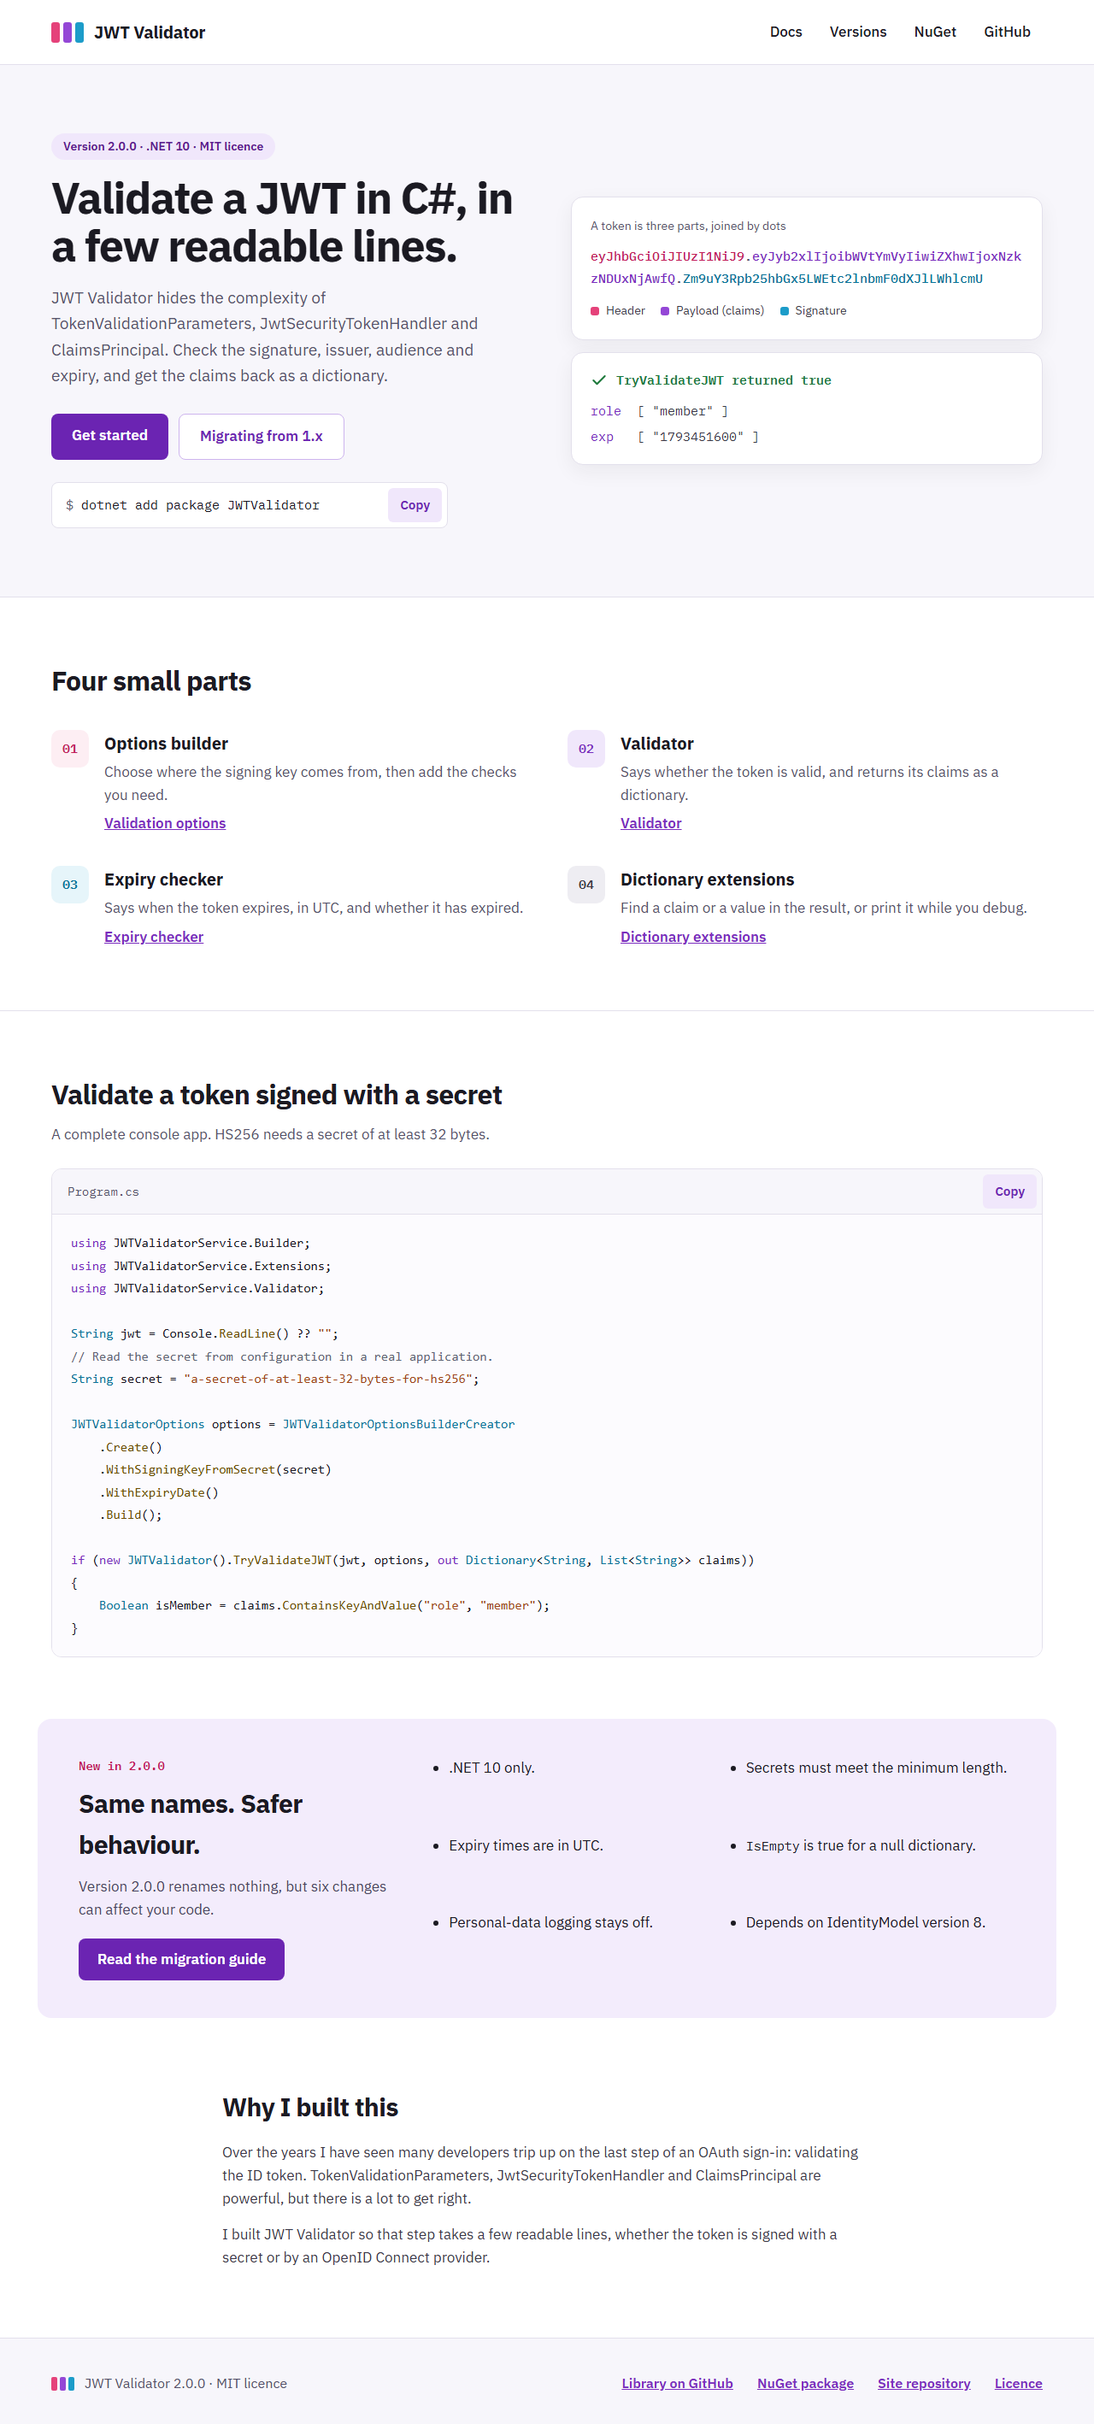
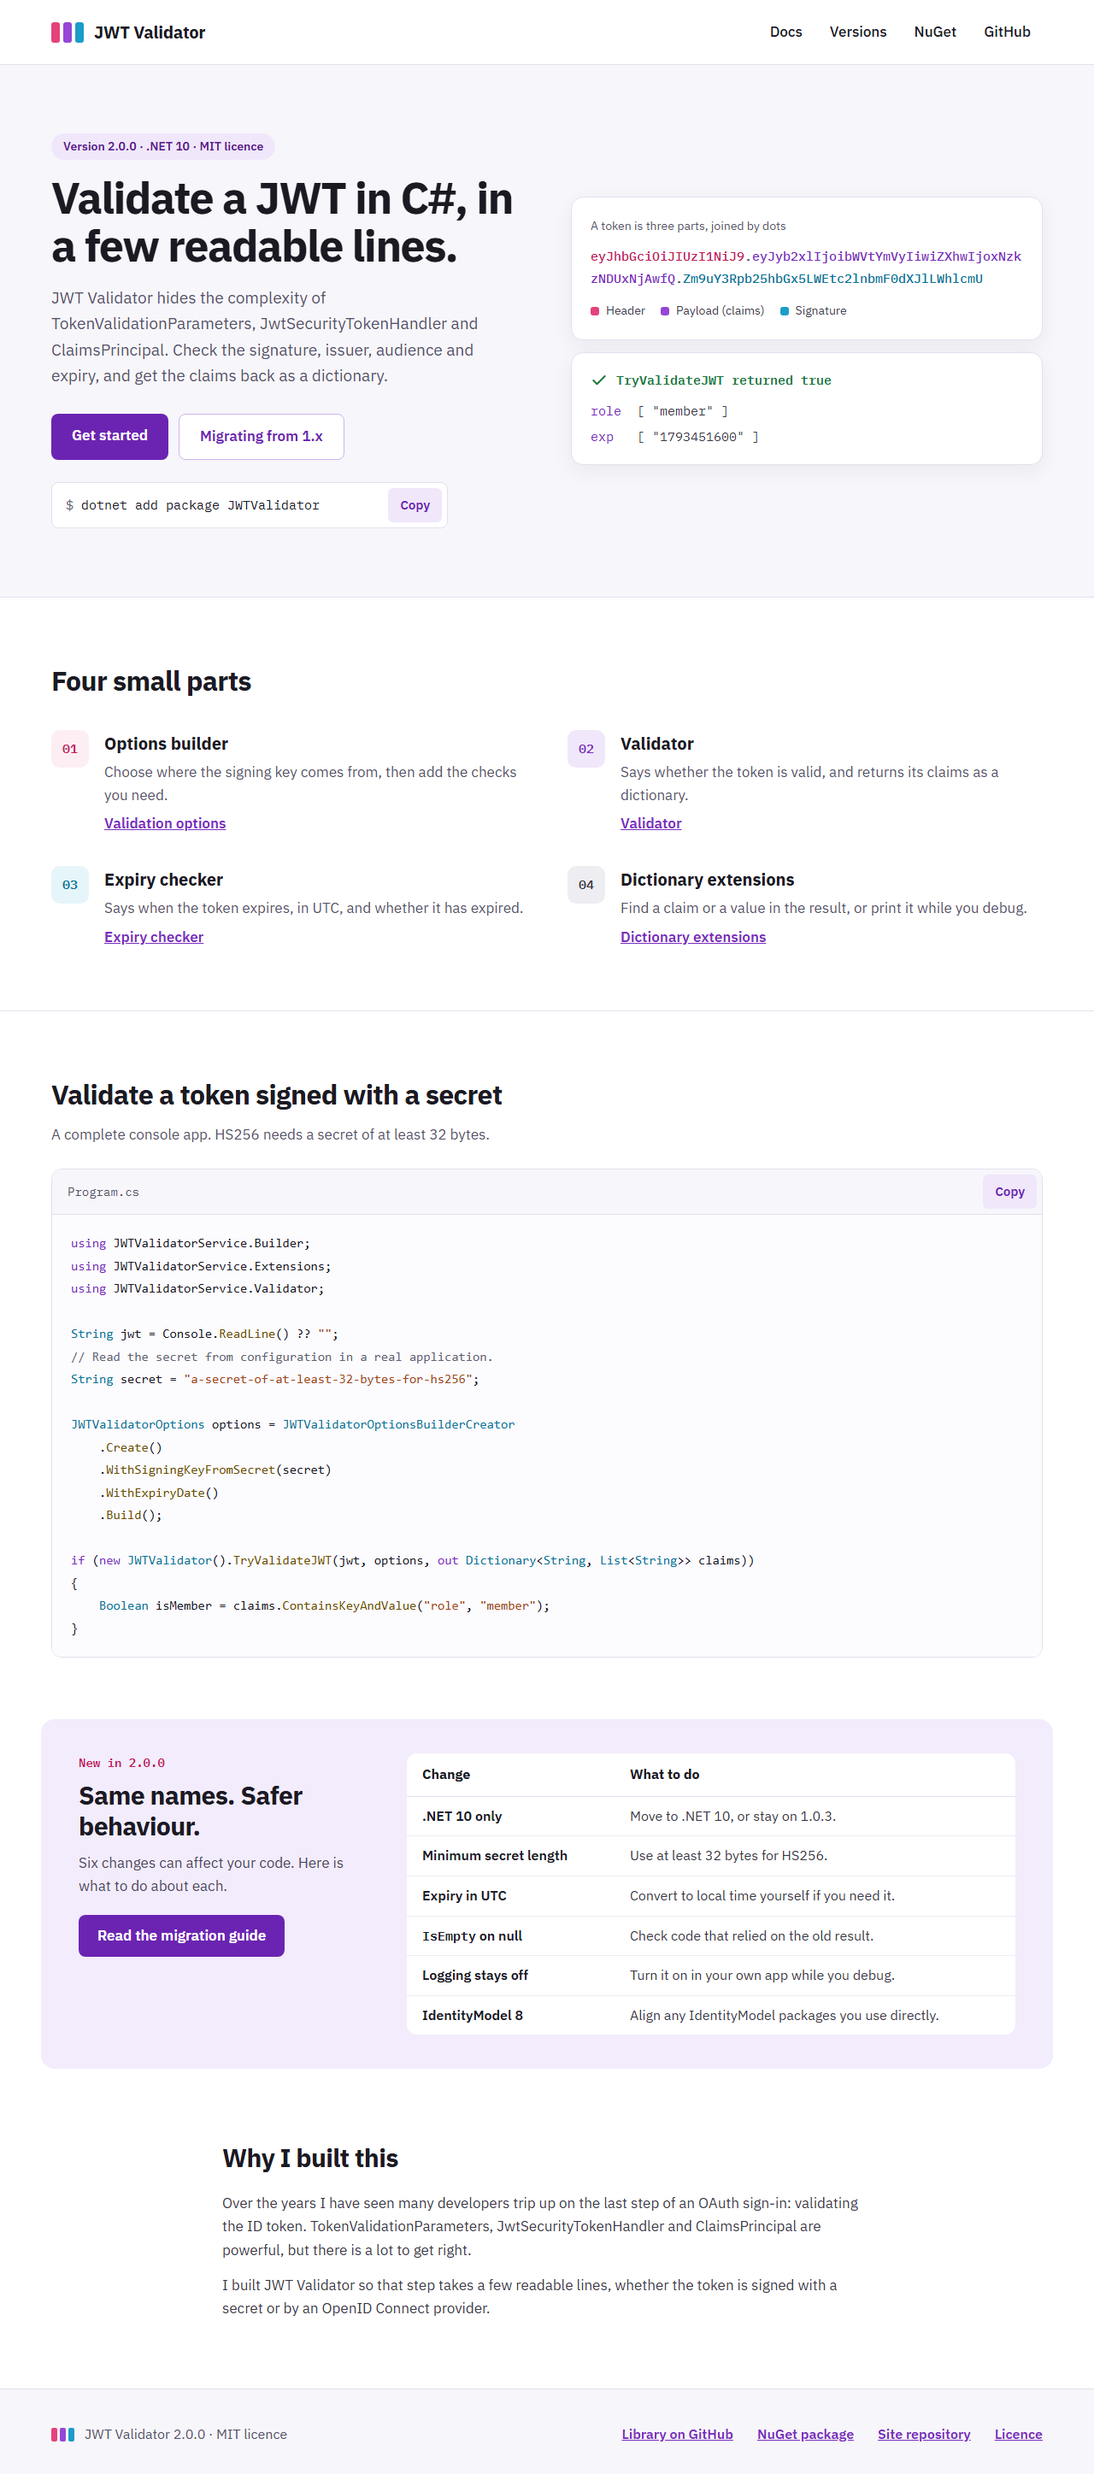
Add the Versions design and the new 2.0.0 section on Home
The maintainer approved two design changes on 2026-10-23:

- The Versions page: a changelog with one row per version, its date,
  its status and its changes.
- The 2.0.0 section on Home: a table of each change and what to do,
  in place of six loose bullet points.

docs/design holds both as HTML and PNG, and plan section 3.6 lists the
Versions files.

diff --git a/docs/design/versions.html b/docs/design/versions.html
@@ -1,0 +1,173 @@
+<!doctype html>
+<html lang="en">
+<head>
+<meta charset="utf-8">
+<meta name="viewport" content="width=device-width, initial-scale=1">
+<title>Approved design: Versions page</title>
+<!-- Approved design mockup. Fonts load from Google Fonts here only; the site hosts its own. -->
+<link rel="preconnect" href="https://fonts.googleapis.com">
+<link href="https://fonts.googleapis.com/css2?family=IBM+Plex+Mono:wght@400;500;600&amp;family=IBM+Plex+Sans:wght@400;500;600;700&amp;display=swap" rel="stylesheet">
+<style>
+body{margin:0;background:#FFFFFF}
+a{color:#7A2DBE}a:hover{color:#5A1F8F}
+</style>
+</head>
+<body>
+<div style="background: #FFFFFF; color: #1B1A22; font-family: 'IBM Plex Sans', system-ui, sans-serif; font-size: 17px; line-height: 1.6; min-height: 100%">
+
+  <header style="border-bottom: 1px solid #E3E0EC">
+    <div style="max-width: 1160px; margin: 0 auto; padding: 14px 32px; display: flex; flex-wrap: wrap; align-items: center; justify-content: space-between; gap: 16px">
+      <a href="#" style="display: flex; align-items: center; gap: 12px; text-decoration: none; color: #1B1A22">
+        <span aria-hidden="true" style="display: flex; gap: 4px">
+          <span style="width: 10px; height: 24px; border-radius: 3px; background: #E5427A"></span>
+          <span style="width: 10px; height: 24px; border-radius: 3px; background: #9447D6"></span>
+          <span style="width: 10px; height: 24px; border-radius: 3px; background: #1C9CC9"></span>
+        </span>
+        <span style="font-weight: 700; font-size: 20px; letter-spacing: -0.01em">JWT Validator</span>
+      </a>
+      <nav aria-label="Main" style="display: flex; flex-wrap: wrap; gap: 4px; font-weight: 500">
+        <a href="#" style="color: #1B1A22; text-decoration: none; padding: 10px 14px; border-radius: 8px">Docs</a>
+        <a href="#" aria-current="page" style="color: #5A1F8F; text-decoration: none; padding: 10px 14px; border-radius: 8px; background: #F0E7FB; font-weight: 600">Versions</a>
+        <a href="#" style="color: #1B1A22; text-decoration: none; padding: 10px 14px; border-radius: 8px">NuGet</a>
+        <a href="#" style="color: #1B1A22; text-decoration: none; padding: 10px 14px; border-radius: 8px">GitHub</a>
+      </nav>
+    </div>
+  </header>
+
+  <main>
+    <section style="background: #F7F6FB; border-bottom: 1px solid #E3E0EC">
+      <div style="max-width: 1160px; margin: 0 auto; padding: 56px 32px 48px">
+        <h1 style="margin: 0 0 10px; font-size: 44px; line-height: 1.1; letter-spacing: -0.03em">Versions</h1>
+        <p style="margin: 0 0 22px; font-size: 19px; color: #55526A; max-width: 40em">Every released version of the JWTValidator package, newest first. Each one is on nuget.org.</p>
+        <div style="display: flex; flex-wrap: wrap; gap: 10px 20px; font-size: 14px; color: #3B3848">
+          <span style="display: flex; align-items: center; gap: 8px"><span style="font-weight: 600; color: #FFFFFF; background: #6B24B2; border-radius: 999px; padding: 1px 10px">Latest</span>The version to install</span>
+          <span style="display: flex; align-items: center; gap: 8px"><span style="font-weight: 600; color: #3B3848; background: #EEEDF2; border-radius: 999px; padding: 1px 10px">Previous</span>Still on nuget.org</span>
+          <span style="display: flex; align-items: center; gap: 8px"><span style="font-weight: 600; color: #A8174D; background: #FDEEF3; border-radius: 999px; padding: 1px 10px">Unlisted</span>Hidden from search on nuget.org</span>
+        </div>
+      </div>
+    </section>
+
+    <div style="max-width: 1160px; margin: 0 auto; padding: 48px 32px 80px">
+      <ol style="list-style: none; margin: 0; padding: 0; display: flex; flex-direction: column; gap: 28px">
+
+        <li>
+          <article aria-labelledby="v200" style="display: flex; flex-wrap: wrap; gap: 20px 40px">
+            <div style="flex: 1 1 200px; max-width: 240px">
+              <h2 id="v200" style="margin: 0 0 4px; font-family: 'IBM Plex Mono', monospace; font-size: 30px; font-weight: 600; letter-spacing: -0.02em">2.0.0</h2>
+              <p style="margin: 0 0 10px; color: #55526A">[Release date]</p>
+              <span style="display: inline-block; font-size: 14px; font-weight: 600; color: #FFFFFF; background: #6B24B2; border-radius: 999px; padding: 1px 10px">Latest</span>
+            </div>
+            <div style="flex: 999 1 520px; min-width: 0; border: 1px solid #CDB4EE; border-radius: 14px; padding: 26px 28px; box-shadow: 0 8px 24px rgba(27, 26, 34, 0.06)">
+              <p style="margin: 0 0 18px; font-size: 19px">Brings the library up to date for .NET 10. No class or method names changed, but six changes can affect your code.</p>
+              <h3 style="margin: 0 0 8px; font-family: 'IBM Plex Mono', monospace; font-size: 13px; font-weight: 600; color: #A8174D; letter-spacing: 0.04em">BREAKING CHANGES</h3>
+              <ul style="margin: 0 0 18px; padding-left: 22px">
+                <li>.NET 10 only. .NET 6, 7, 8 and 9 are no longer supported.</li>
+                <li>A secret shorter than the minimum for the token's algorithm no longer validates: 32 bytes for HS256, 48 for HS384 and 64 for HS512.</li>
+                <li><code style="font-family: 'IBM Plex Mono', monospace; font-size: 15px">WhenDoesJWTExpire</code> returns UTC, not local time. <code style="font-family: 'IBM Plex Mono', monospace; font-size: 15px">HasJWTExpired</code> is correct in every time zone.</li>
+                <li><code style="font-family: 'IBM Plex Mono', monospace; font-size: 15px">IsEmpty</code> returns true for an empty or null dictionary.</li>
+                <li>The library no longer turns on personal-data logging.</li>
+                <li>Depends on version 8 of the Microsoft IdentityModel packages, not version 6.</li>
+              </ul>
+              <h3 style="margin: 0 0 8px; font-family: 'IBM Plex Mono', monospace; font-size: 13px; font-weight: 600; color: #55526A; letter-spacing: 0.04em">OTHER CHANGES</h3>
+              <ul style="margin: 0 0 22px; padding-left: 22px">
+                <li>With lifetime validation on, a token whose expiry is after 19 January 2038 now validates.</li>
+                <li>The dictionary extension methods no longer throw for a null dictionary, or a null value inside a list.</li>
+              </ul>
+              <a href="#" style="display: inline-block; background: #6B24B2; color: #FFFFFF; text-decoration: none; font-weight: 600; padding: 11px 22px; border-radius: 8px">Read the migration guide</a>
+            </div>
+          </article>
+        </li>
+
+        <li>
+          <article aria-labelledby="v103" style="display: flex; flex-wrap: wrap; gap: 20px 40px">
+            <div style="flex: 1 1 200px; max-width: 240px">
+              <h2 id="v103" style="margin: 0 0 4px; font-family: 'IBM Plex Mono', monospace; font-size: 30px; font-weight: 600; letter-spacing: -0.02em">1.0.3</h2>
+              <p style="margin: 0 0 10px; color: #55526A">8 November 2022</p>
+              <span style="display: inline-block; font-size: 14px; font-weight: 600; color: #3B3848; background: #EEEDF2; border-radius: 999px; padding: 1px 10px">Previous</span>
+            </div>
+            <div style="flex: 999 1 520px; min-width: 0; border: 1px solid #E3E0EC; border-radius: 14px; padding: 24px 28px">
+              <p style="margin: 0 0 12px; font-size: 18px">Added the expiry checker: find out whether a token has expired, and when it expires.</p>
+              <ul style="margin: 0; padding-left: 22px; color: #3B3848">
+                <li>New <code style="font-family: 'IBM Plex Mono', monospace; font-size: 15px">JWTExpiryChecker</code> class, with <code style="font-family: 'IBM Plex Mono', monospace; font-size: 15px">HasJWTExpired</code> and <code style="font-family: 'IBM Plex Mono', monospace; font-size: 15px">WhenDoesJWTExpire</code> and their <code style="font-family: 'IBM Plex Mono', monospace; font-size: 15px">Try</code> versions.</li>
+                <li>Parameter checks across the library.</li>
+              </ul>
+            </div>
+          </article>
+        </li>
+
+        <li>
+          <article aria-labelledby="v102" style="display: flex; flex-wrap: wrap; gap: 20px 40px">
+            <div style="flex: 1 1 200px; max-width: 240px">
+              <h2 id="v102" style="margin: 0 0 4px; font-family: 'IBM Plex Mono', monospace; font-size: 30px; font-weight: 600; letter-spacing: -0.02em">1.0.2</h2>
+              <p style="margin: 0 0 10px; color: #55526A">19 September 2022</p>
+              <span style="display: inline-block; font-size: 14px; font-weight: 600; color: #3B3848; background: #EEEDF2; border-radius: 999px; padding: 1px 10px">Previous</span>
+            </div>
+            <div style="flex: 999 1 520px; min-width: 0; border: 1px solid #E3E0EC; border-radius: 14px; padding: 24px 28px">
+              <p style="margin: 0 0 12px; font-size: 18px">Made the options builder strict and nested.</p>
+              <ul style="margin: 0; padding-left: 22px; color: #3B3848">
+                <li>The builder's methods must be called in a set order.</li>
+                <li>You give either a secret or an OpenID URL, not both.</li>
+                <li><code style="font-family: 'IBM Plex Mono', monospace; font-size: 15px">JWTValidatorOptions</code> can only be made by the builder.</li>
+              </ul>
+            </div>
+          </article>
+        </li>
+
+        <li>
+          <article aria-labelledby="v101" style="display: flex; flex-wrap: wrap; gap: 20px 40px">
+            <div style="flex: 1 1 200px; max-width: 240px">
+              <h2 id="v101" style="margin: 0 0 4px; font-family: 'IBM Plex Mono', monospace; font-size: 30px; font-weight: 600; letter-spacing: -0.02em">1.0.1</h2>
+              <p style="margin: 0 0 10px; color: #55526A">10 September 2022</p>
+              <span style="display: inline-block; font-size: 14px; font-weight: 600; color: #3B3848; background: #EEEDF2; border-radius: 999px; padding: 1px 10px">Previous</span>
+            </div>
+            <div style="flex: 999 1 520px; min-width: 0; border: 1px solid #E3E0EC; border-radius: 14px; padding: 24px 28px">
+              <p style="margin: 0 0 12px; font-size: 18px">Fixed the package so it installs correctly.</p>
+              <ul style="margin: 0; padding-left: 22px; color: #3B3848">
+                <li>Moved the models into the main project, so the package's dependencies resolve on every machine.</li>
+              </ul>
+            </div>
+          </article>
+        </li>
+
+        <li>
+          <article aria-labelledby="v100" style="display: flex; flex-wrap: wrap; gap: 20px 40px">
+            <div style="flex: 1 1 200px; max-width: 240px">
+              <h2 id="v100" style="margin: 0 0 4px; font-family: 'IBM Plex Mono', monospace; font-size: 30px; font-weight: 600; letter-spacing: -0.02em; color: #55526A">1.0.0</h2>
+              <p style="margin: 0 0 10px; color: #55526A">2022</p>
+              <span style="display: inline-block; font-size: 14px; font-weight: 600; color: #A8174D; background: #FDEEF3; border-radius: 999px; padding: 1px 10px">Unlisted</span>
+            </div>
+            <div style="flex: 999 1 520px; min-width: 0; border: 1px dashed #D5D1E0; border-radius: 14px; padding: 24px 28px; background: #FCFBFE">
+              <p style="margin: 0 0 12px; font-size: 18px">The first version. Replaced by 1.0.1 the next day, because its dependencies did not install correctly.</p>
+              <ul style="margin: 0; padding-left: 22px; color: #3B3848">
+                <li>The options builder, to choose what to validate.</li>
+                <li><code style="font-family: 'IBM Plex Mono', monospace; font-size: 15px">TryValidateJWT</code>, which returns the claims as a dictionary.</li>
+                <li>Extension methods for the claims dictionary.</li>
+              </ul>
+            </div>
+          </article>
+        </li>
+      </ol>
+    </div>
+  </main>
+
+  <footer style="background: #F7F6FB; border-top: 1px solid #E3E0EC">
+    <div style="max-width: 1160px; margin: 0 auto; padding: 40px 32px; display: flex; flex-wrap: wrap; justify-content: space-between; align-items: center; gap: 24px; font-size: 16px">
+      <div style="display: flex; align-items: center; gap: 12px">
+        <span aria-hidden="true" style="display: flex; gap: 3px">
+          <span style="width: 7px; height: 16px; border-radius: 2px; background: #E5427A"></span>
+          <span style="width: 7px; height: 16px; border-radius: 2px; background: #9447D6"></span>
+          <span style="width: 7px; height: 16px; border-radius: 2px; background: #1C9CC9"></span>
+        </span>
+        <p style="margin: 0; color: #55526A">JWT Validator 2.0.0 · MIT licence</p>
+      </div>
+      <nav aria-label="Footer" style="display: flex; flex-wrap: wrap; gap: 8px 28px; font-weight: 600">
+        <a href="#">Library on GitHub</a>
+        <a href="#">NuGet package</a>
+        <a href="#">Site repository</a>
+        <a href="#">Licence</a>
+      </nav>
+    </div>
+  </footer>
+</div>
+</body>
+</html>

diff --git a/docs/design/home.html b/docs/design/home.html
@@ -134,21 +134,31 @@ a{color:#7A2DBE}a:hover{color:#5A1F8F}
     </section>
 
     <section style="padding: 0 32px">
-      <div style="max-width: 1096px; margin: 0 auto; background: #F3ECFC; border-radius: 16px; padding: 44px 48px; display: flex; flex-wrap: wrap; gap: 40px">
-        <div style="flex: 1 1 280px; min-width: 0">
+      <div style="max-width: 1096px; margin: 0 auto; background: #F3ECFC; border-radius: 16px; padding: 40px 44px; display: flex; flex-wrap: wrap; gap: 32px 48px">
+        <div style="flex: 1 1 260px; min-width: 0">
           <p style="margin: 0 0 8px; font-family: 'IBM Plex Mono', monospace; font-size: 14px; font-weight: 600; color: #C21E5A">New in 2.0.0</p>
-          <h2 style="margin: 0 0 12px; font-size: 30px; letter-spacing: -0.02em">Same names. Safer behaviour.</h2>
-          <p style="margin: 0 0 20px; color: #4A4660">Version 2.0.0 renames nothing, but six changes can affect your code.</p>
+          <h2 style="margin: 0 0 12px; font-size: 30px; line-height: 1.2; letter-spacing: -0.02em">Same names. Safer behaviour.</h2>
+          <p style="margin: 0 0 20px; color: #4A4660">Six changes can affect your code. Here is what to do about each.</p>
           <a href="#" style="display: inline-block; background: #6B24B2; color: #FFFFFF; text-decoration: none; font-weight: 600; padding: 11px 22px; border-radius: 8px">Read the migration guide</a>
         </div>
-        <ul style="flex: 2 1 480px; min-width: 0; margin: 0; padding-left: 22px; display: grid; grid-template-columns: repeat(auto-fit, minmax(240px, 1fr)); gap: 10px 32px">
-          <li>.NET 10 only.</li>
-          <li>Secrets must meet the minimum length.</li>
-          <li>Expiry times are in UTC.</li>
-          <li><code style="font-family: 'IBM Plex Mono', monospace; font-size: 15px">IsEmpty</code> is true for a null dictionary.</li>
-          <li>Personal-data logging stays off.</li>
-          <li>Depends on IdentityModel version 8.</li>
-        </ul>
+        <div style="flex: 2 1 560px; min-width: 0; overflow-x: auto; background: #FFFFFF; border-radius: 12px">
+          <table style="width: 100%; border-collapse: collapse; font-size: 16px">
+            <thead>
+              <tr style="text-align: left; border-bottom: 1px solid #E3E0EC">
+                <th scope="col" style="padding: 12px 18px">Change</th>
+                <th scope="col" style="padding: 12px 18px">What to do</th>
+              </tr>
+            </thead>
+            <tbody>
+              <tr style="border-bottom: 1px solid #EEECF4"><td style="padding: 10px 18px; font-weight: 600">.NET 10 only</td><td style="padding: 10px 18px; color: #3B3848">Move to .NET 10, or stay on 1.0.3.</td></tr>
+              <tr style="border-bottom: 1px solid #EEECF4"><td style="padding: 10px 18px; font-weight: 600">Minimum secret length</td><td style="padding: 10px 18px; color: #3B3848">Use at least 32 bytes for HS256.</td></tr>
+              <tr style="border-bottom: 1px solid #EEECF4"><td style="padding: 10px 18px; font-weight: 600">Expiry in UTC</td><td style="padding: 10px 18px; color: #3B3848">Convert to local time yourself if you need it.</td></tr>
+              <tr style="border-bottom: 1px solid #EEECF4"><td style="padding: 10px 18px; font-weight: 600"><code style="font-family: 'IBM Plex Mono', monospace; font-size: 15px">IsEmpty</code> on null</td><td style="padding: 10px 18px; color: #3B3848">Check code that relied on the old result.</td></tr>
+              <tr style="border-bottom: 1px solid #EEECF4"><td style="padding: 10px 18px; font-weight: 600">Logging stays off</td><td style="padding: 10px 18px; color: #3B3848">Turn it on in your own app while you debug.</td></tr>
+              <tr><td style="padding: 10px 18px; font-weight: 600">IdentityModel 8</td><td style="padding: 10px 18px; color: #3B3848">Align any IdentityModel packages you use directly.</td></tr>
+            </tbody>
+          </table>
+        </div>
       </div>
     </section>
 

diff --git a/docs/plan.md b/docs/plan.md
@@ -252,6 +252,7 @@ The approved design is stored in `docs/design/`. It is the reference for the bui
 | --- | --- |
 | `home.png`, `home.html` | Home at 1280 px |
 | `docs-page.png`, `docs-page.html` | A docs page ("Validation options") at 1280 px |
+| `versions.png`, `versions.html` | The Versions page at 1280 px, as it looks in release 3 |
 | `phone.png`, `phone.html` | Home and the open menu at 390 px |
 | `logo.png`, `logo.html` | The logo on light and dark, and the package icon at 128, 64 and 32 px |
 
